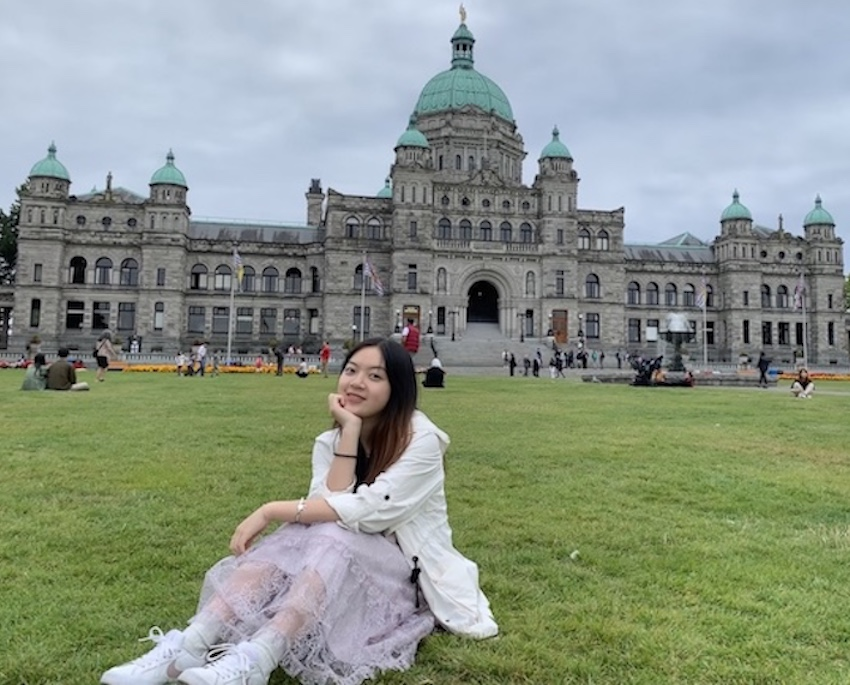
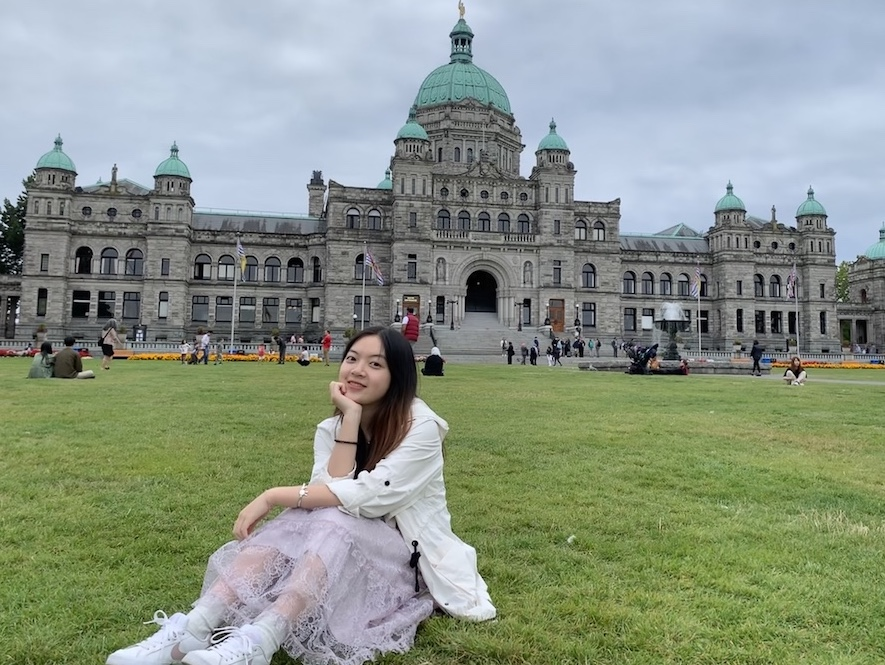
improve resolution

Changed region(s): [[0.0, 0.0, 1.0, 1.0], [0.9482, 0.6316, 1.0, 0.6917]]

diff --git a/css/style.css b/css/style.css
@@ -110,8 +110,8 @@ a.active, .nav a:hover{
 
 .myPicture{
     background-image: url(../Image/Yuxin.JPG);
-    width: 850px;
-    height: 685px;
+    width: 880px;
+    height: 650px;
     top: -50px;
 }
 
